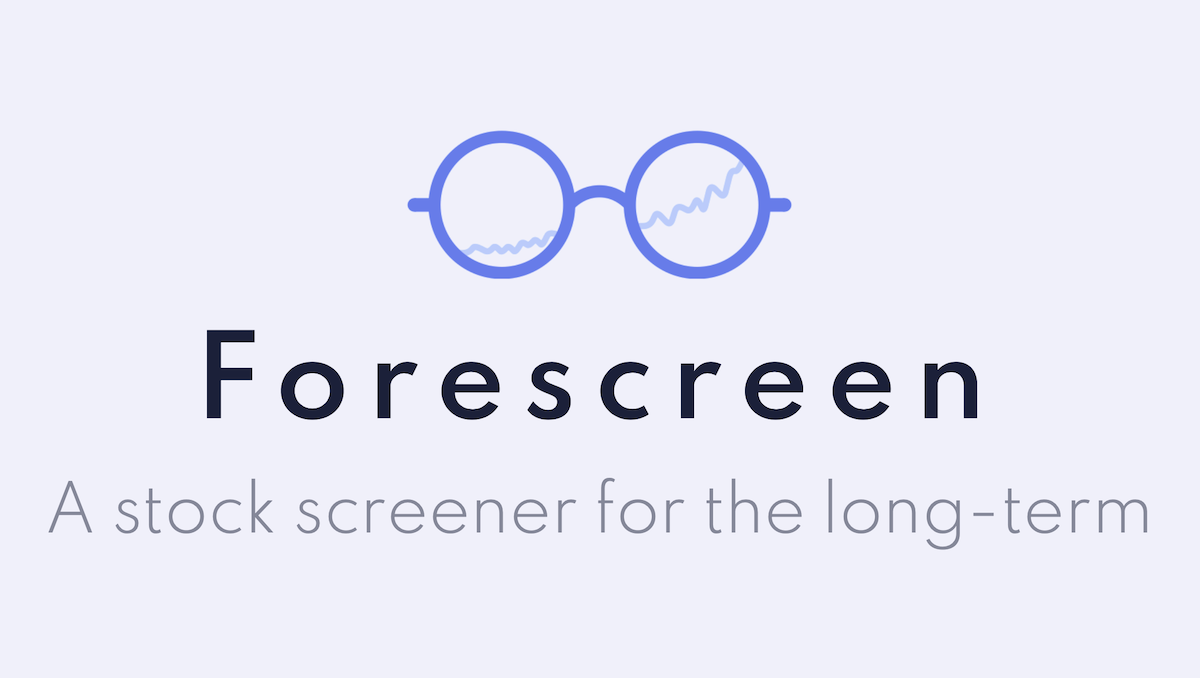
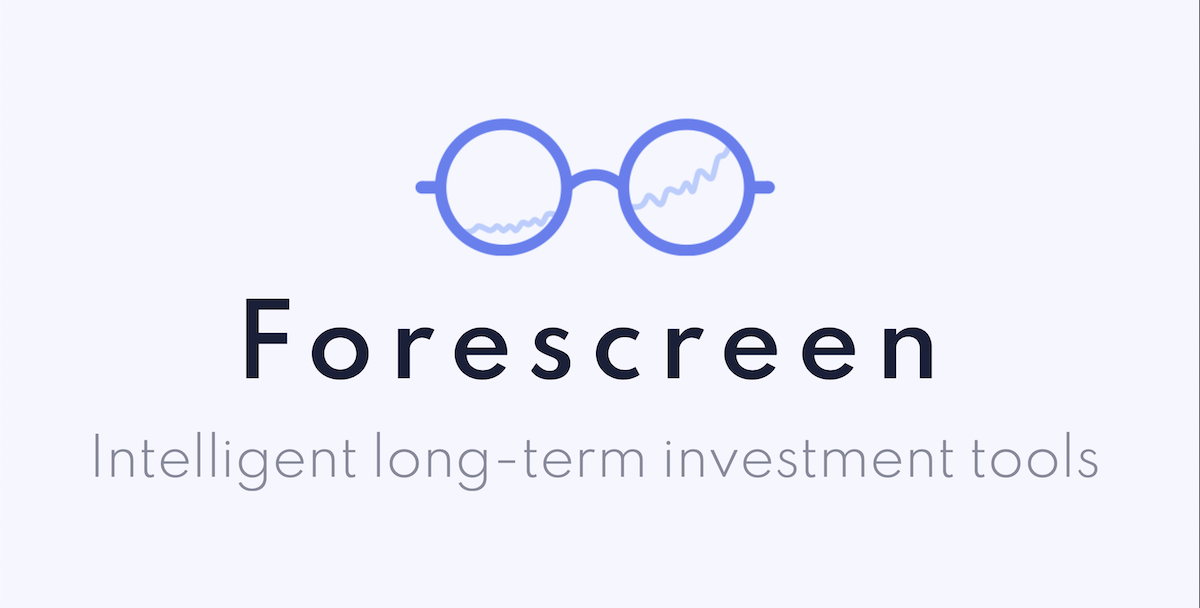
new siteThumb

diff --git a/explore/index.html b/explore/index.html
@@ -37,7 +37,7 @@
         <meta property="og:image" content="/siteThumb.png">
         <meta property="og:image:type" content="image/png">
         <meta property="og:image:width" content="1200">
-        <meta property="og:image:height" content="678">
+        <meta property="og:image:height" content="608">
         <meta name="viewport" content="width=device-width, initial-scale=1.0">
         <link href="https://fonts.googleapis.com/css2?family=Spartan:wght@300;400;600;700&display=swap" rel="stylesheet">
         <link rel="stylesheet" href="../colors.css" type="text/css">

diff --git a/pro/index.html b/pro/index.html
@@ -37,7 +37,7 @@
         <meta property="og:image" content="/siteThumb.png">
         <meta property="og:image:type" content="image/png">
         <meta property="og:image:width" content="1200">
-        <meta property="og:image:height" content="678">
+        <meta property="og:image:height" content="608">
         <meta name="viewport" content="width=device-width, initial-scale=1.0">
         <link href="https://fonts.googleapis.com/css2?family=Spartan:wght@300;400;600;700&display=swap" rel="stylesheet">
         <link rel="stylesheet" href="../colors.css" type="text/css">

diff --git a/purpose/index.html b/purpose/index.html
@@ -37,7 +37,7 @@
         <meta property="og:image" content="/siteThumb.png">
         <meta property="og:image:type" content="image/png">
         <meta property="og:image:width" content="1200">
-        <meta property="og:image:height" content="678">
+        <meta property="og:image:height" content="608">
         <meta name="viewport" content="width=device-width, initial-scale=1.0">
         <link href="https://fonts.googleapis.com/css2?family=Spartan:wght@300;400;600;700&display=swap" rel="stylesheet">
         <link rel="stylesheet" href="../colors.css" type="text/css">

diff --git a/quote/index.html b/quote/index.html
@@ -37,7 +37,7 @@
         <meta property="og:image" content="/siteThumb.png">
         <meta property="og:image:type" content="image/png">
         <meta property="og:image:width" content="1200">
-        <meta property="og:image:height" content="678">
+        <meta property="og:image:height" content="608">
         <meta name="viewport" content="width=device-width, initial-scale=1.0">
         <link href="https://fonts.googleapis.com/css2?family=Spartan:wght@300;400;600;700&display=swap" rel="stylesheet">
         <link rel="stylesheet" href="../colors.css" type="text/css">

diff --git a/index.html b/index.html
@@ -37,7 +37,7 @@
         <meta property="og:image" content="/siteThumb.png">
         <meta property="og:image:type" content="image/png">
         <meta property="og:image:width" content="1200">
-        <meta property="og:image:height" content="678">
+        <meta property="og:image:height" content="608">
         <meta name="viewport" content="width=device-width, initial-scale=1.0">
         <link href="https://fonts.googleapis.com/css2?family=Spartan:wght@300;400;600;700&display=swap" rel="stylesheet">
         <link rel="stylesheet" href="./colors.css" type="text/css">

diff --git a/account/index.html b/account/index.html
@@ -37,7 +37,7 @@
         <meta property="og:image" content="/siteThumb.png">
         <meta property="og:image:type" content="image/png">
         <meta property="og:image:width" content="1200">
-        <meta property="og:image:height" content="678">
+        <meta property="og:image:height" content="608">
         <meta name="viewport" content="width=device-width, initial-scale=1.0">
         <link href="https://fonts.googleapis.com/css2?family=Spartan:wght@300;400;600;700&display=swap" rel="stylesheet">
         <link rel="stylesheet" href="/colors.css" type="text/css">

diff --git a/account/login/index.html b/account/login/index.html
@@ -37,7 +37,7 @@
         <meta property="og:image" content="/siteThumb.png">
         <meta property="og:image:type" content="image/png">
         <meta property="og:image:width" content="1200">
-        <meta property="og:image:height" content="678">
+        <meta property="og:image:height" content="608">
         <meta name="viewport" content="width=device-width, initial-scale=1.0">
         <link href="https://fonts.googleapis.com/css2?family=Spartan:wght@300;400;600;700&display=swap" rel="stylesheet">
         <link rel="stylesheet" href="/colors.css" type="text/css">

diff --git a/account/signup/index.html b/account/signup/index.html
@@ -37,7 +37,7 @@
         <meta property="og:image" content="/siteThumb.png">
         <meta property="og:image:type" content="image/png">
         <meta property="og:image:width" content="1200">
-        <meta property="og:image:height" content="678">
+        <meta property="og:image:height" content="608">
         <meta name="viewport" content="width=device-width, initial-scale=1.0">
         <link href="https://fonts.googleapis.com/css2?family=Spartan:wght@300;400;600;700&display=swap" rel="stylesheet">
         <link rel="stylesheet" href="/colors.css" type="text/css">

diff --git a/payment/index.html b/payment/index.html
@@ -37,7 +37,7 @@
         <meta property="og:image" content="/siteThumb.png">
         <meta property="og:image:type" content="image/png">
         <meta property="og:image:width" content="1200">
-        <meta property="og:image:height" content="678">
+        <meta property="og:image:height" content="608">
         <meta name="viewport" content="width=device-width, initial-scale=1.0">
         <link href="https://fonts.googleapis.com/css2?family=Spartan:wght@300;400;600;700&display=swap" rel="stylesheet">
         <link rel="stylesheet" href="/colors.css" type="text/css">

diff --git a/portfolio/index.html b/portfolio/index.html
@@ -37,7 +37,7 @@
         <meta property="og:image" content="/siteThumb.png">
         <meta property="og:image:type" content="image/png">
         <meta property="og:image:width" content="1200">
-        <meta property="og:image:height" content="678">
+        <meta property="og:image:height" content="608">
         <meta name="viewport" content="width=device-width, initial-scale=1.0">
         <link href="https://fonts.googleapis.com/css2?family=Spartan:wght@300;400;600;700&display=swap" rel="stylesheet">
         <link rel="stylesheet" href="/colors.css" type="text/css">
